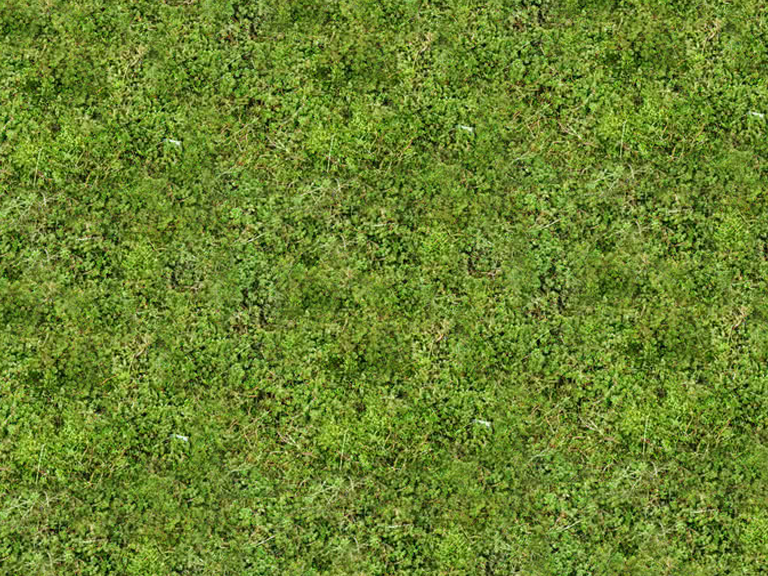
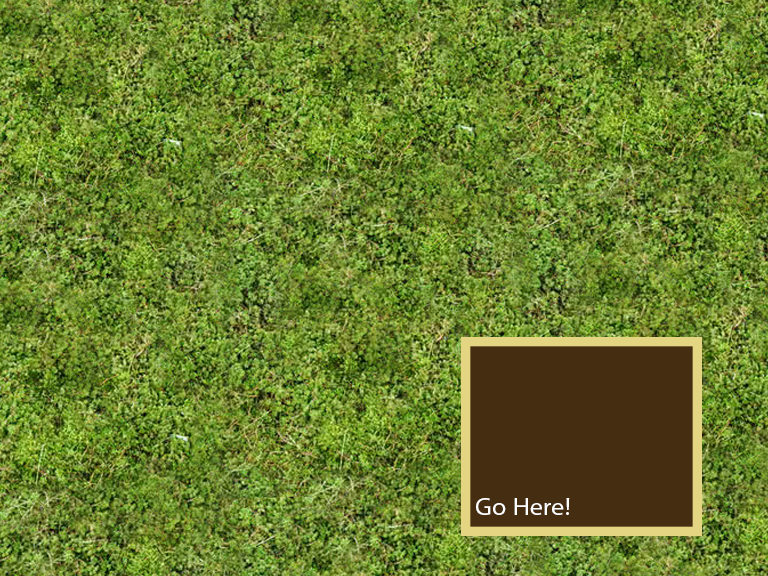
3rd commit. See 09/06/22 Change Logs for futher info

Changed region(s): [[0.5938, 0.5625, 0.9375, 0.9375]]

diff --git a/src/main/UI.java b/src/main/UI.java
@@ -1,0 +1,114 @@
+package main;
+
+import java.awt.*;
+
+public class UI {
+    GamePanel gp;
+    Font arial_40;
+    Font arial_20;
+    Font arial_20_bold;
+    public String[] animalNames = new String[6];
+    public String[] animalDesc = new String[6];
+    private Graphics2D g2;
+
+    public void animalTitle(){
+        animalNames[0] = "Red Panda";
+        animalNames[1] = "null";
+        animalNames[2] = "null";
+        animalNames[3] = "null";
+        animalNames[4] = "null";
+        animalNames[5] = "null";
+    }
+
+    public void animalDesc(){
+        animalDesc[0] = "a small mammal native to the eastern Himalayas and southwestern\nChina. It has dense reddish-brown fur with a black belly and legs, \nwhite-lined ears,a mostly white muzzle and a ringed tail.";
+        animalDesc[1] = "null";
+        animalDesc[2] = "null";
+        animalDesc[3] = "null";
+        animalDesc[4] = "null";
+        animalDesc[5] = "null";
+    }
+
+    public int animalIndex = 0;
+
+    public void displayUI(int index){
+        animalIndex = index;
+        gp.displayUI = true;
+    }
+
+    public UI(GamePanel gp){
+        this.gp = gp;
+        arial_40 = new Font("Arial", Font.PLAIN, 40);
+        arial_20 = new Font("Arial", Font.PLAIN, 20);
+        arial_20_bold = new Font("Arial", Font.BOLD, 20);
+    }
+
+    public void drawInfoScreen(){
+        int x = gp.tileSize;
+        int y = gp.tileSize*8;
+        int width = gp.screenWidth - (gp.tileSize*2);
+        int height = gp.screenHeight - (gp.tileSize*9);
+        int titlePos = y + gp.tileSize;
+        int descPos = y + gp.tileSize*2 - 15;
+
+        //InterractSoundUI locations
+        int soundUI_x = gp.tileSize*11;
+        int soundUI_y = gp.tileSize*10+38;
+        int soundUI_width = gp.tileSize*4;
+        int soundUI_height = gp.tileSize-10;
+
+        drawSubWindow(x,y,width,height);
+        drawText(x,titlePos,descPos,animalIndex);
+        interractSoundUI(soundUI_x, soundUI_y,soundUI_width,soundUI_height);
+    }
+
+    public void drawText(int x, int titlePosition, int descPosition, int animalIndex){
+        animalTitle();
+        animalDesc();
+
+        g2.setFont(arial_40);
+        g2.setColor(Color.white);
+
+        g2.drawString(animalNames[animalIndex], x+15,titlePosition);
+
+        g2.setFont(arial_20);
+        g2.setColor(Color.white);
+        for (String word : animalDesc[animalIndex].split("\n")){
+            g2.drawString(word,x+15,descPosition);
+            descPosition += 23;
+        }
+    }
+
+    public void drawSubWindow(int x, int y, int width, int height){
+        Color blackColor = new Color(0,0,0,200);
+        g2.setColor(blackColor);
+        g2.fillRoundRect(x,y,width,height,35,35);
+
+        Color borderColor = new Color(230, 141, 106);
+        g2.setColor(borderColor);
+        g2.setStroke(new BasicStroke(5));
+        g2.drawRoundRect(x,y,width,height,25,25);
+    }
+
+    public void interractSoundUI(int x, int y, int width, int height){
+
+
+        Color blackColor = new Color(230, 141, 106);
+        g2.setColor(blackColor);
+        g2.fillRoundRect(x,y,width,height,35,35);
+
+        Color borderColor = new Color(255,255,255);
+        g2.setColor(borderColor);
+        g2.setStroke(new BasicStroke(5));
+        g2.drawRoundRect(x,y,width,height,25,25);
+
+        g2.setFont(arial_20_bold);
+        g2.setColor(Color.black);
+        g2.drawString("Press F to hear", x+17,y+25);
+    }
+
+    public void draw(Graphics2D g2){
+        this.g2 = g2;
+        drawInfoScreen();
+    }
+}

diff --git a/src/main/GamePanel.java b/src/main/GamePanel.java
@@ -30,10 +30,17 @@ public class GamePanel extends JPanel implements Runnable{
     public int borderLeft = 1;
     public int borderRight = 718;
 
+    // is player is on the right spot?
+    public boolean playerOnPosition = false;
+
+    // display UI rules
+    public boolean displayUI = false;
+
     // system
     TileManager tileM = new TileManager(this);
     KeyHandler keyH = new KeyHandler();
     Sound sound = new Sound();
+    UI ui = new UI(this);
     Thread gameThread;
 
     // entity and object
@@ -71,13 +78,27 @@ public class GamePanel extends JPanel implements Runnable{
             update();
             // 2. Draw the screen with the updated information
             repaint();
+            // check player coordinate
+//            System.out.println("player x: "+player.x+" ,player y: "+player.y);
 
             // set of game rules
+            displayUI = false;
             if (player.x > 400 && player.x < 700 && player.y > 300 && player.y < 500){
 //                System.out.println("player is around 400-700");
+                ui.displayUI(0);
+                playerOnPosition = true;
                 if (keyH.interactPressed){
                     playSE(3);
                     keyH.interactPressed = false;
+                }
+            }else{
+                playerOnPosition = false;
+            }
+
+            if (player.x > 1 && player.x < 25 && player.y > 370 && player.y < 460){
+                System.out.println("ur on exit");
+                if (keyH.interactPressed){
+                    System.exit(0);
                 }
             }
 
@@ -99,6 +120,9 @@ public class GamePanel extends JPanel implements Runnable{
 
         tileM.draw(g2);
         player.draw(g2);
+        if (displayUI){
+            ui.draw(g2);
+        }
         g2.dispose();
     }
     public void playMusic(int i){

diff --git a/src/main/Main.java b/src/main/Main.java
@@ -1,14 +1,18 @@
 package main;
 
+import javax.imageio.ImageIO;
 import javax.swing.*;
 import java.io.File;
+import res.icon.*;
+import res.icon.Icon;
+import res.player.playerSprites;
 
 public class Main {
     public static void main(String[] args) {
         JFrame window = new JFrame();
         window.setDefaultCloseOperation(JFrame.EXIT_ON_CLOSE);
         window.setResizable(false);
-        window.setTitle("The Final");
+        window.setTitle("Educational Zoo Tour");
 
         GamePanel gamePanel = new GamePanel();
         window.add(gamePanel);

diff --git a/src/main/Sound.java b/src/main/Sound.java
@@ -8,7 +8,7 @@ import res.sound.*;
 
 public class Sound {
     Clip clip;
-    URL soundURL[] = new URL[30];
+    URL soundURL[] = new URL[4];
 
     public Sound(){
         soundURL[0] = getClass().getResource(SoundAssets.excuse);

diff --git a/src/entity/Player.java b/src/entity/Player.java
@@ -25,7 +25,7 @@ public class Player extends entity{
     public void setDefaultValues(){
         x = 100;
         y = 100;
-        speed = 3;
+        speed = 6;
         direction = "down";
     }
 

diff --git a/src/res/icon/Icon.java b/src/res/icon/Icon.java
@@ -1,0 +1,5 @@
+package res.icon;
+
+public class Icon {
+    public static String icon = "/res/icon/icon.png";
+}

diff --git a/README.md b/README.md
@@ -1,9 +1,9 @@
 # Educational Zoo Tour Game/App
 
-![Img 1](screenshots/img1.png)
+![Img 2](screenshots/img2.png)
 ## What is this?
 Educational gampe/app tentang binatang-binatang yang jarang
-dijumpai di kebun binatang pada umumnya. 
+dijumpai di kebun binatang pada umumnya.
 
 ## How many features do this program has?
 - Bermain sebagai pengunjung dan dapat bisa
@@ -13,7 +13,17 @@ dijumpai di kebun binatang pada umumnya.
 - Dapat berinteraksi dengan setiap area binatang yang dikunjungi.
 - Setiap interaksi akan mengeluarkan suara hewan yang dikunjungi.
 
+##Change Logs
+06/06/22 - Intial Commit. Basic game functions (playermovement, trigger sound, graphics).
+
+06/06/22 - Added readme.
+
+09/06/22 - Added information UI with animal title and their descprition, 
+Added a new feature: display information UI whenever player is on a certain place,
+Added interact button UI,
+New Character Design, Updated map.
 ## Credits
 - Lead Programmer: nope.
-- Lead Concept & Designer: Sekiper
-- Soundtrack: C418, Minecraft OST
+- Lead Concept & Designer: sekiper
+- Soundtrack: C418, Minecraft
+- Sound Effects: Minecraft
